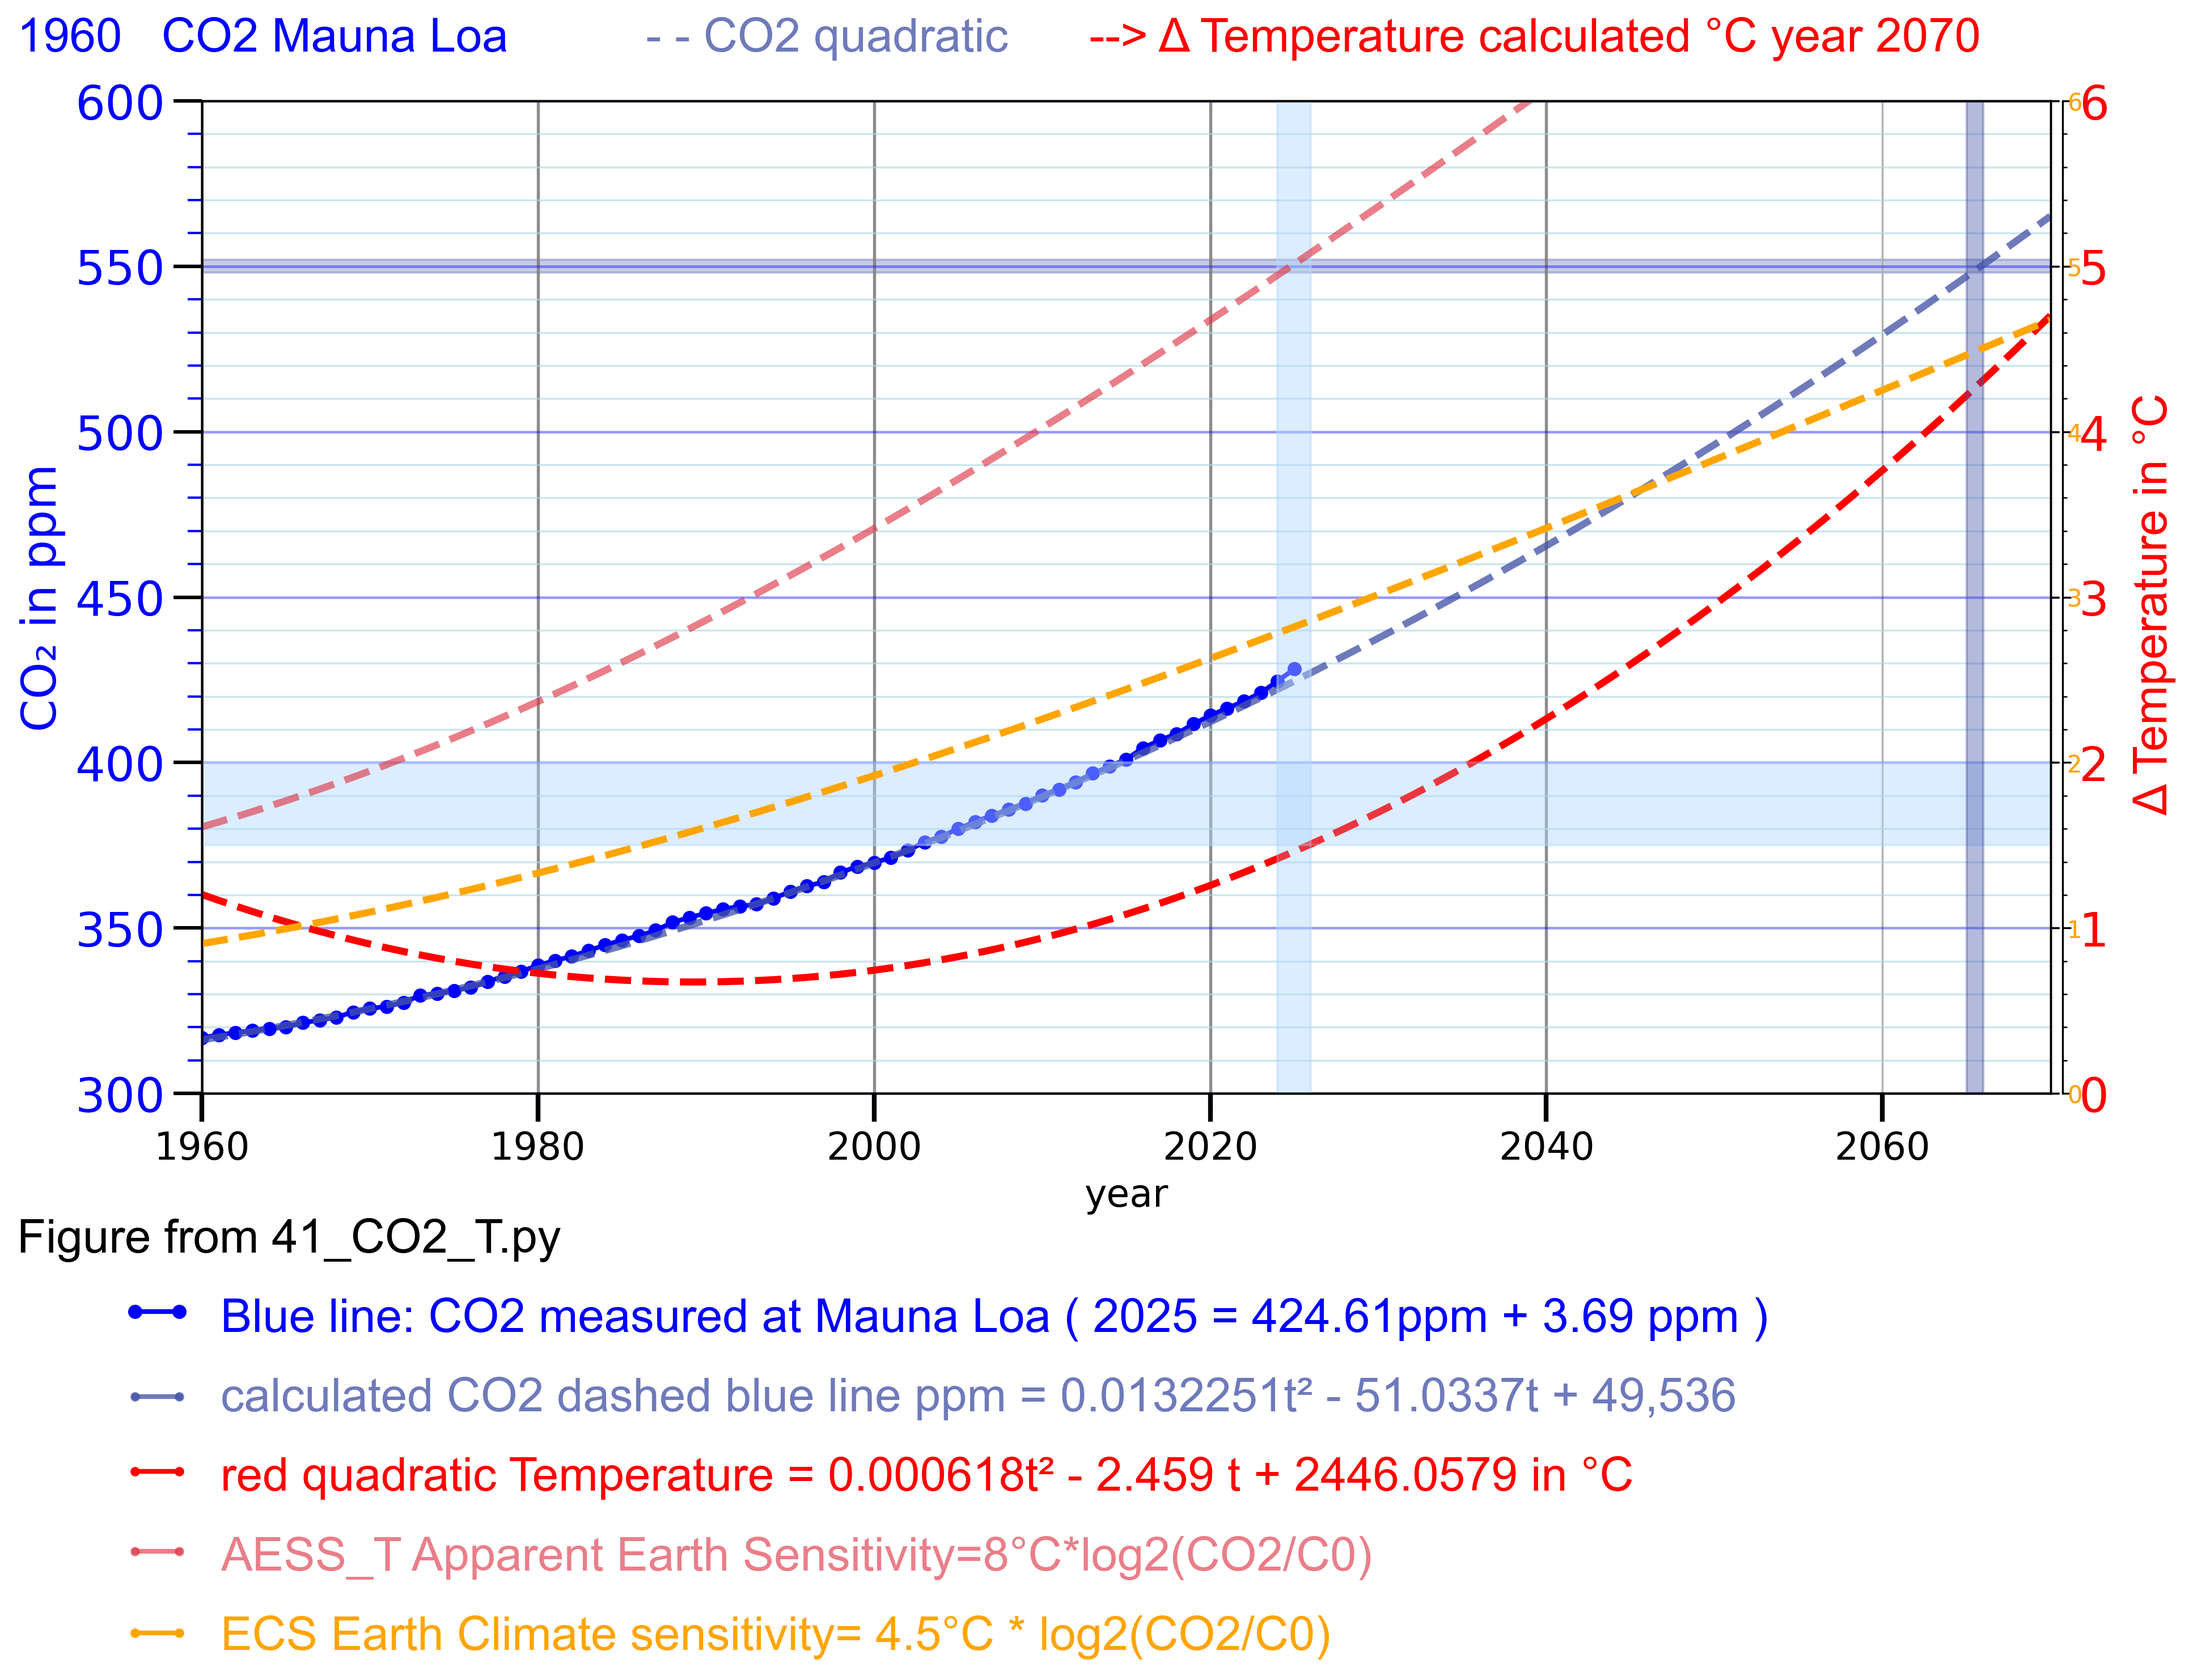
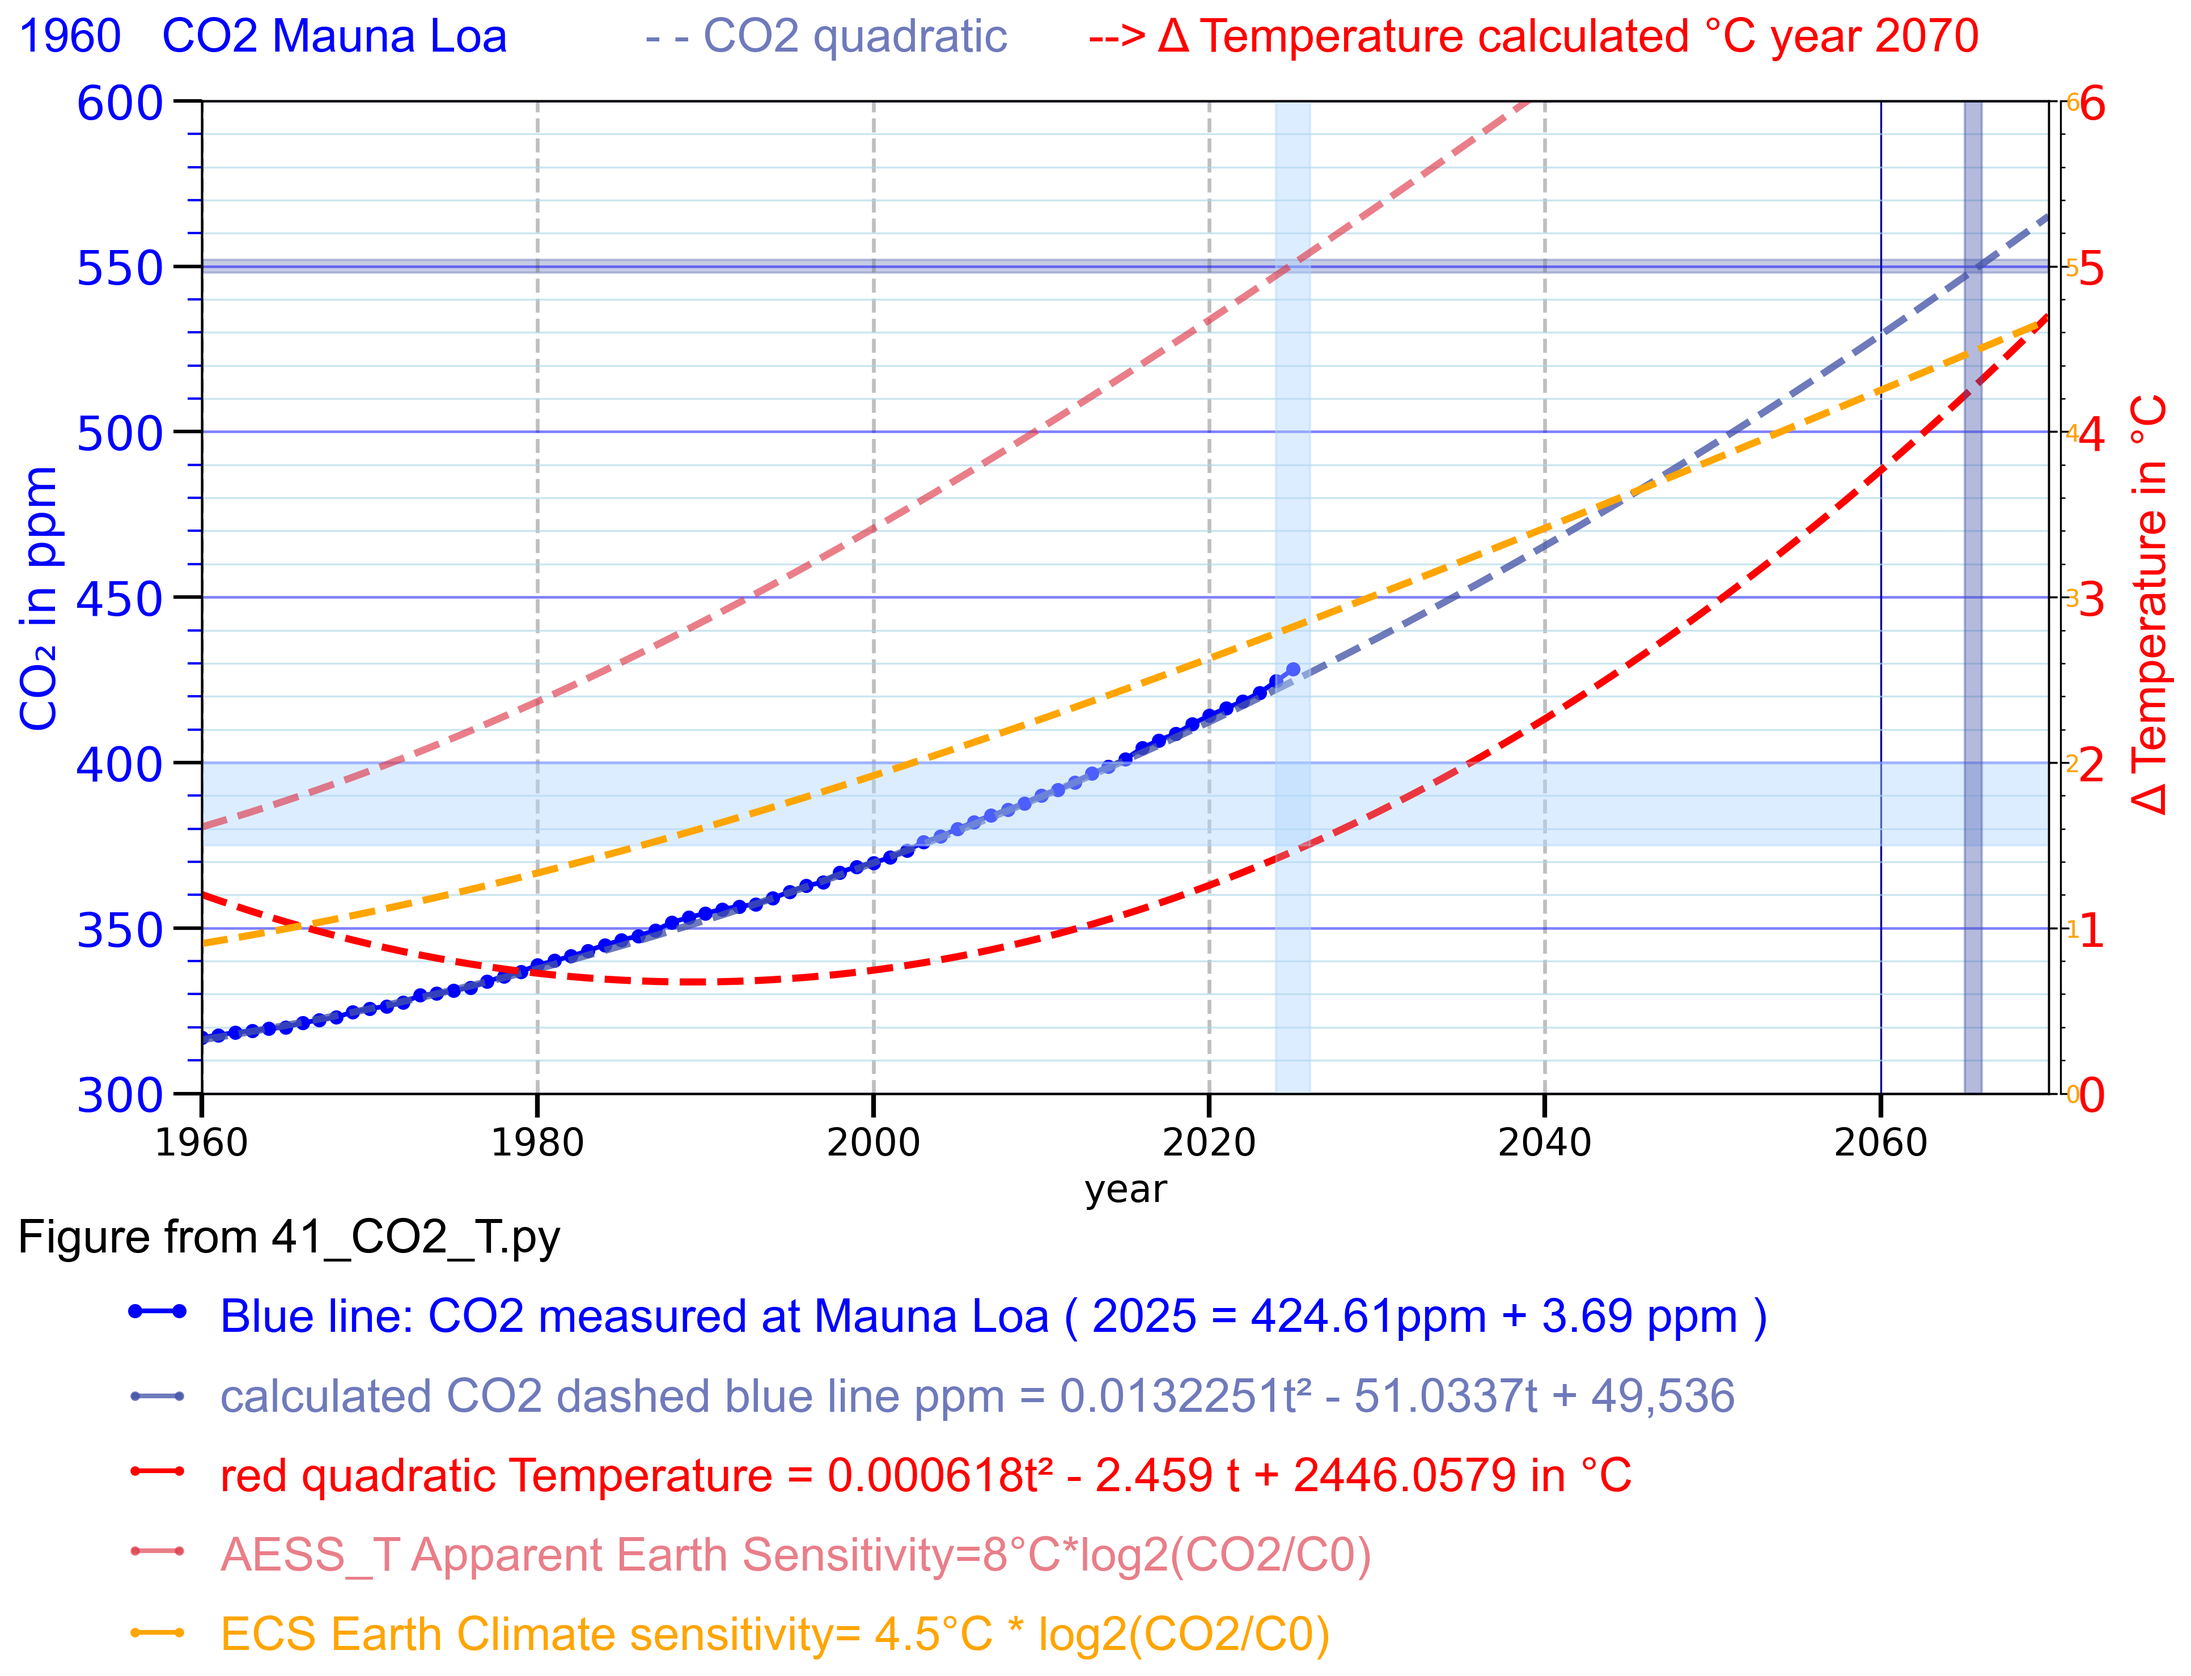
41r4_CO2_T.py scale y axis lines

diff --git a/41_CO2_T.py b/41_CO2_T.py
@@ -1,4 +1,4 @@
-# 41r3_CO2_T.py scale y axis lines
+# 41r4_CO2_T.py scale y axis lines
 # Thomas Boettcher
 # part 1 configure 
 # part 2 plot CO2 Mauna Loa
@@ -112,6 +112,9 @@ elif x_end - x_anf < 10:
 elif x_end - x_anf < 50:
    x_mayor_ticks = 5
    x_minor_ticks = 1
+elif x_end - x_anf < 120:
+   x_mayor_ticks = 20
+   x_minor_ticks = 5
 else:
    x_mayor_ticks = 20
    x_minor_ticks = 10
@@ -241,21 +244,23 @@ if scale_mode == 10:
    ax1.tick_params(axis='y', which='major', length=12, width=1.5)
    ax1.tick_params(axis='y', which='minor', length=6,  width=1, color='blue')
    # 2.8 scale the X value time = 20
-   ax1.xaxis.set_major_locator(MultipleLocator(x_mayor_ticks))   # Hauptstriche
-   ax1.tick_params(axis='x', which='major', length=12, width=2) # all 2 years
+   ax1.xaxis.set_major_locator(MultipleLocator(x_mayor_ticks))  # works
+   ax1.tick_params(axis='x', which='major', length=10, width=2) # all 20 years
+
    ax1.xaxis.set_minor_locator(MultipleLocator(x_minor_ticks))   # Nebenstriche
-   ax1.tick_params(axis='x', which='minor', length=4,  width=1)
-   # ax1.grid(True, which="major", color="darkblue", alpha=1) # big net 20 ppm
+   ax1.tick_params(axis='x', which='minor', length=14,  width=4)
+
+   ax1.grid(True, which="major", color="darkblue", alpha=1) # big net 20 ppm
    ax1.grid(True, which="minor", color="lightblue", alpha=0.64)
    # Separate horizontal and vertical grid lines
    for line in ax1.get_xgridlines():   # vertical lines
-       line.set_color('grey')            # vertical color
-       line.set_alpha(0.9)
-       line.set_linestyle('-')         # optional '--'
-       line.set_linewidth(1.3)   # <-- thickness
+       line.set_color('grey')          # vertical color
+       line.set_alpha(0.5)
+       line.set_linestyle('--')        # optional '--'
+       line.set_linewidth(1.6)   # <-- thickness
    for line in ax1.get_ygridlines():   # horizontal lines
        line.set_color('blue')           # horizontal color
-       line.set_alpha(0.4)
+       line.set_alpha(0.5)
        line.set_linestyle('-')          # optional
        line.set_linewidth(1.1)   # <-- thickness
 else:
